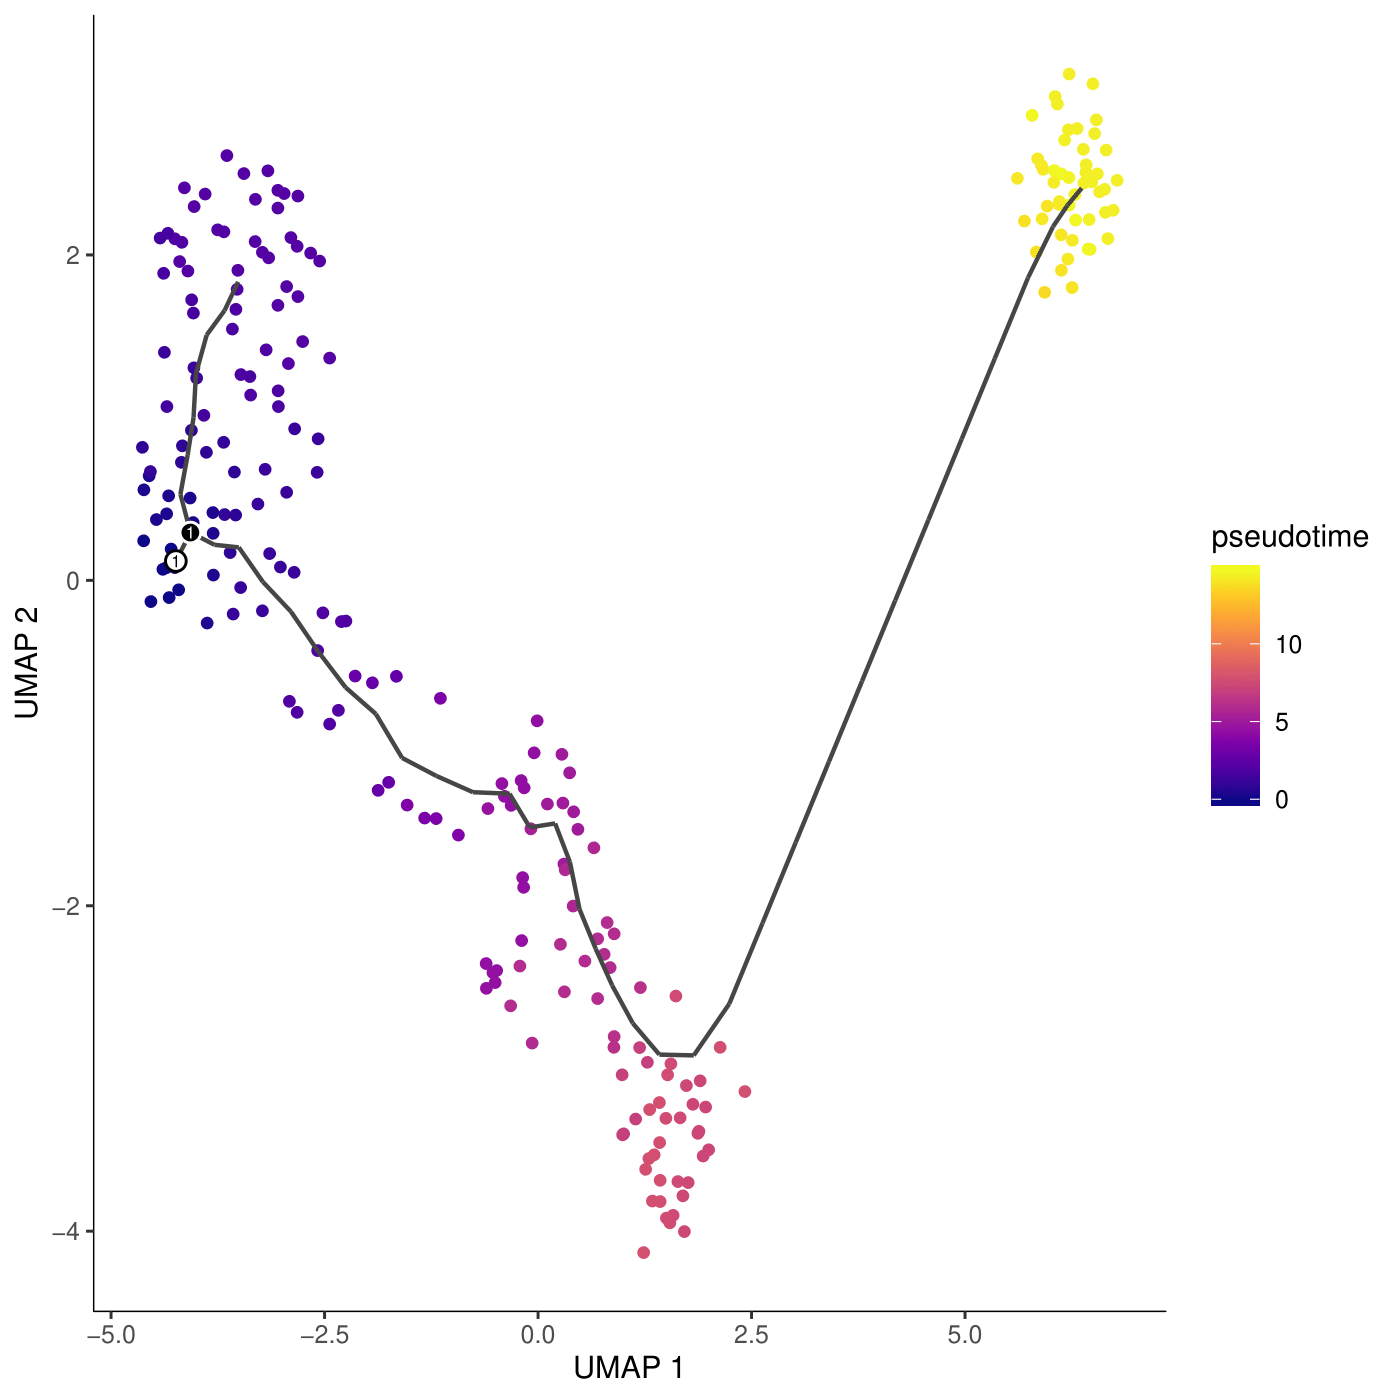
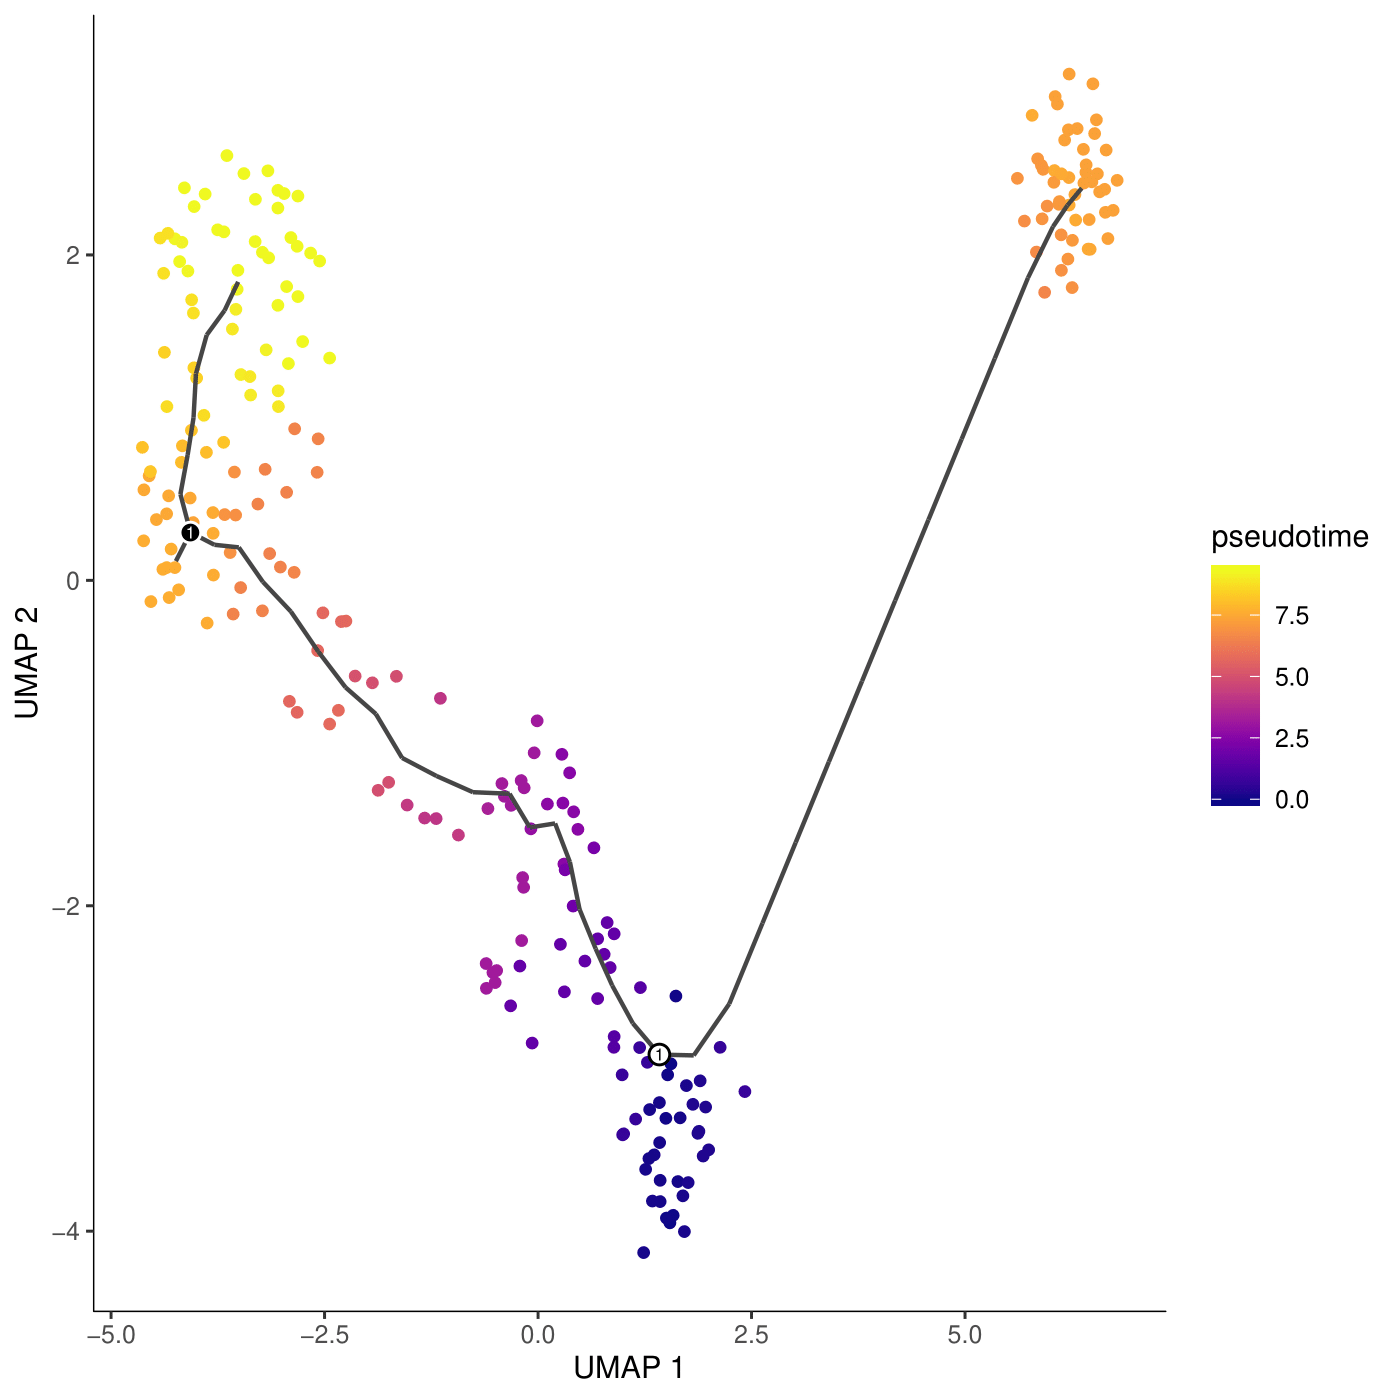
add gradient picture

diff --git a/02_Monocle_Dissection.md b/02_Monocle_Dissection.md
@@ -457,8 +457,24 @@ cds <- preprocess_cds(cds, num_dim = 100)
 cds <- reduce_dimension(cds,reduction_method=c("UMAP"))
 cds <- cluster_cells(cds)
 cds <- learn_graph(cds)
-cds <- order_cells(cds,root_cells=row.names(colData(cds[,3],on=5)))
+
+#set the root for the gradient
+get_earliest_principal_node <- function(cds,on=5){
+  cell_ids <- which(colData(cds)[, "group"] == 5)
+
+  closest_vertex <-
+  cds@principal_graph_aux[["UMAP"]]$pr_graph_cell_proj_closest_vertex
+  closest_vertex <- as.matrix(closest_vertex[colnames(cds), ])
+  root_pr_nodes <-
+  igraph::V(principal_graph(cds)[["UMAP"]])$name[as.numeric(names
+  (which.max(table(closest_vertex[cell_ids,]))))]
+
+  root_pr_nodes
+}
+cds <- order_cells(cds, root_pr_nodes=get_earliest_principal_node(cds))
+
 plot_cells(cds, reduction_method="UMAP", color_cells_by="pseudotime",cell_size=1.3,label_cell_groups=FALSE,label_leaves=FALSE,graph_label_size=2,label_branch_points=TRUE)
+
 ```
 ![](assets/PseudotimeColorGradient-1.png)
 
